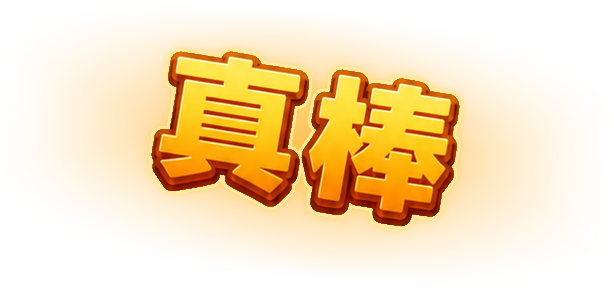
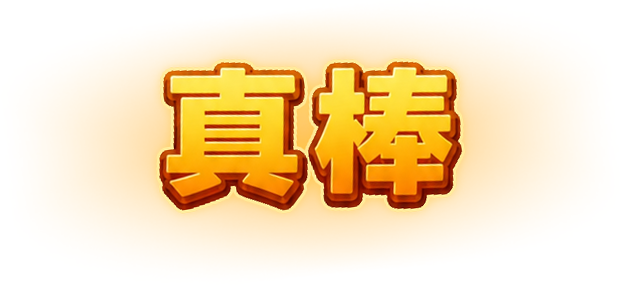
``` fix(game): 修复游戏场景中的数值精度问题并调整UI元素尺寸
- 修复坐标和尺寸数值的小数精度问题，如将 x: 375.0000000006 修正为 375
- 调整相机正交高度从 738.6934673366835 到 667
- 修正多个UI元素的宽高尺寸，统一调整为更合适的数值
- 清理默认动画配置，移除不必要的 "<None>" 值
- 修复图片资源元数据中的偏移量、裁剪位置等参数
- 更新盒图特效的透明度变化时间从0.45秒调整为0.6秒

feat(autoFinish): 暂时屏蔽自动完成功能

- 在尝试自动完成函数中添加返回语句以禁用该功能
- 添加注释说明暂时屏蔽此功能

refactor(combo): 优化连击系统逻辑实现

- 修改连击等级计算方式，只在达到COMBO_STEP倍数时触发
- 添加条件检查确保只有在解锁新口号时才显示UI效果
- 简化代码逻辑，移除冗余的判断条件
- 添加相关注释说明新的触发机制

feat(constants): 调整连胜系统开始关卡

- 将连胜系统的开始关卡从11调整为12
```

Changed region(s): [[0.2476, 0.1404, 0.7736, 0.814]]

diff --git a/assets/game/script/UIGameLayer.ts b/assets/game/script/UIGameLayer.ts
@@ -573,9 +573,13 @@ export class UIGameLayer extends Component {
         }
 
         // 每 COMBO_STEP 次连击解锁下一级口号:第 3/6/9/... 次时按顺序播一个
-        const targetLevel = Math.floor(comboTimes / UIGameLayer.COMBO_STEP);
+        if (comboTimes % UIGameLayer.COMBO_STEP !== 0) return;
+
+        const targetLevel = comboTimes / UIGameLayer.COMBO_STEP;
         const maxLevel = UIGameLayer.COMBO_AUDIOS.length;
         const shouldPlayComboLevel = targetLevel > this.comboAudioLevel && targetLevel <= maxLevel;
+
+        // 只有在解锁新口号时才显示 UI(第 3/6/9/... 次)
         if (!shouldPlayComboLevel) return;
 
         const seq = ++this.comboRefreshSeq;
@@ -597,10 +601,9 @@ export class UIGameLayer extends Component {
             .call(() => {
                 if (seq !== this.comboRefreshSeq || !this.comboNode?.isValid) return;
 
-                if (shouldPlayComboLevel) {
-                    this.comboAudioLevel = targetLevel;
-                    this.playComboLevel(targetLevel - 1);
-                }
+                // 播放对应等级的口号音效和图片
+                this.comboAudioLevel = targetLevel;
+                this.playComboLevel(targetLevel - 1);
 
                 Tween.stopAllByTarget(this.comboBarSprite);
                 this.comboBarSprite.fillRange = 1;

diff --git a/assets/game/script/config/Constants.ts b/assets/game/script/config/Constants.ts
@@ -86,7 +86,7 @@ const Constants = {
     // 失败清零、每天清零、干净通关 +1。详见 StreakManager。
     WinStreak: {
         // 从该关号起启用分档；之前的关恒定用基础盘面（base）
-        StartLevel: 11,
+        StartLevel: 12,
         // 难度池：开启后按已摇到的 easy/normal/hard 档，从 config_levels_advanced 对应目录中
         // 随机抽「没玩过」的盘面；关号仅作进度计数，全玩过再循环。
         UseDifficultyPool: true,

diff --git a/assets/game/script/boxEffect.ts b/assets/game/script/boxEffect.ts
@@ -95,8 +95,8 @@ export class boxEffect extends Component {
         opacity.opacity = 255;
 
         tween(opacity)
-            .to(0.45, { opacity: boxEffect.BOX1_MIN_OPACITY }, { easing: 'sineInOut' })
-            .to(0.45, { opacity: 255 }, { easing: 'sineInOut' })
+            .to(0.6, { opacity: boxEffect.BOX1_MIN_OPACITY }, { easing: 'sineInOut' })
+            .to(0.6, { opacity: 255 }, { easing: 'sineInOut' })
             .union()
             .repeatForever()
             .start();

diff --git a/assets/game/script/GameCtrl.ts b/assets/game/script/GameCtrl.ts
@@ -1679,6 +1679,8 @@ export class GameCtrl extends Component {
     }
 
     private tryStartAutoFinish() {
+        //暂时屏蔽这个功能
+        return 
         if (this.isReadyForAutoFinish()) {
             //一波带走
             this.startAutoFinish();
